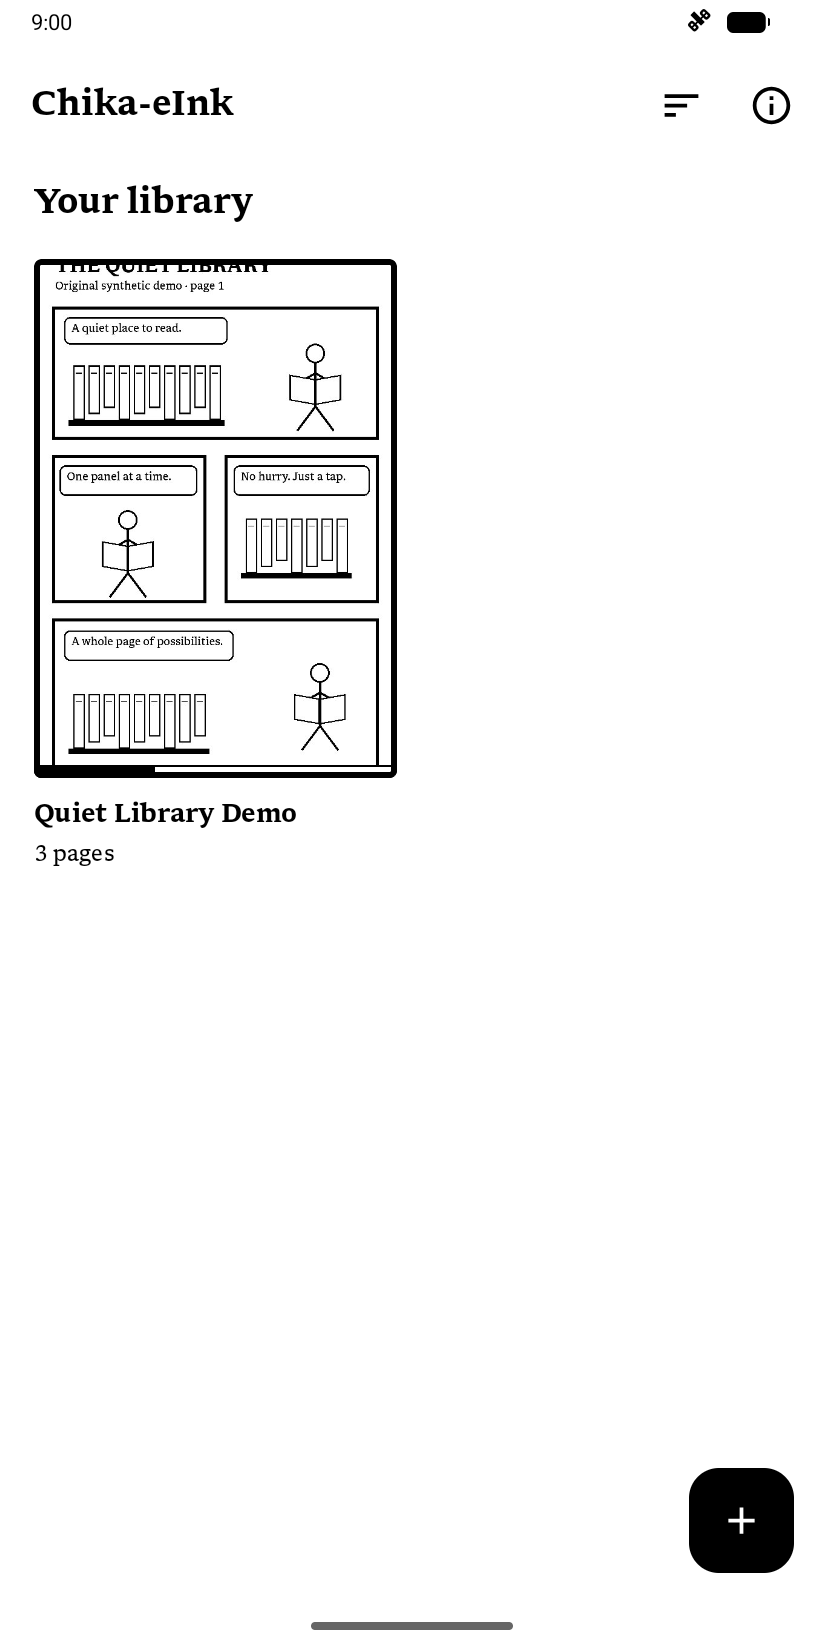
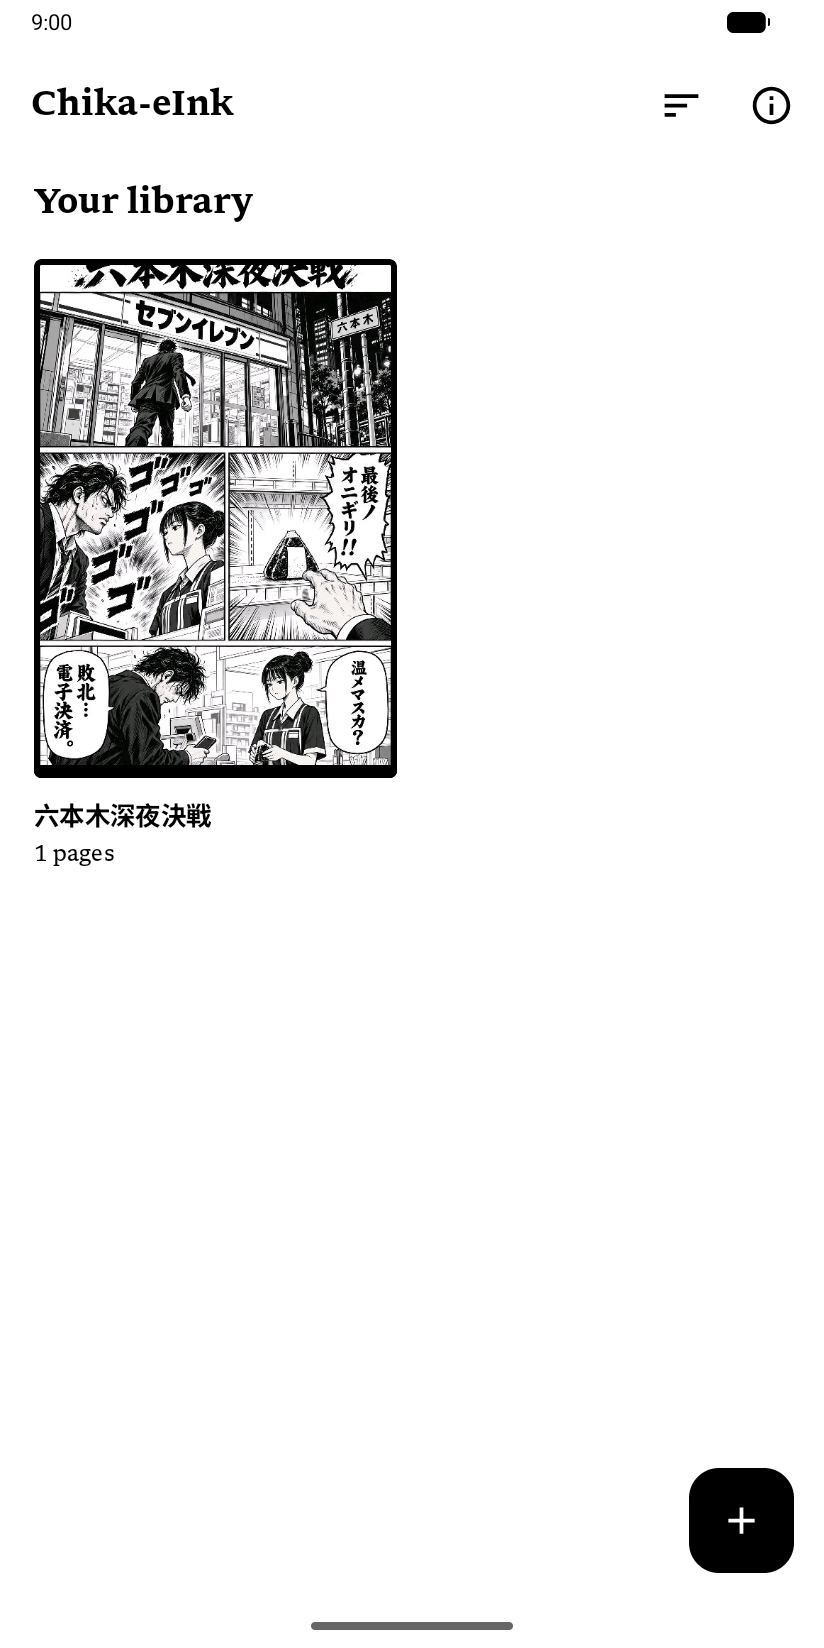
Replace screenshot demo with original Roppongi manga

Changed region(s): [[0.0303, 0.1547, 0.4854, 0.5261], [0.8192, 0.0, 0.8495, 0.0309]]

diff --git a/tools/generate_screenshot_comic.py b/tools/generate_screenshot_comic.py
@@ -1,63 +1,14 @@
-"""Original synthetic comic fixture for Chika-eInk screenshots. MPL-2.0."""
-from pathlib import Path
-from io import BytesIO
-from zipfile import ZipFile, ZIP_DEFLATED
-from PIL import Image, ImageDraw, ImageFont
-
+"""Package the original Roppongi demo manga for screenshots. MPL-2.0."""
 import argparse
+from pathlib import Path
+from zipfile import ZipFile, ZIP_DEFLATED
 
 parser = argparse.ArgumentParser(description=__doc__)
-parser.add_argument('output', type=Path, help='Directory for the generated CBZ')
-root = parser.parse_args().output
-root.mkdir(parents=True, exist_ok=True)
-fonts = Path(__file__).resolve().parents[1] / 'app/src/main/res/font'
-regular = ImageFont.truetype(str(fonts / 'libron_regular.ttf'), 36)
-bold = ImageFont.truetype(str(fonts / 'libron_bold.ttf'), 64)
-
-
-def speech(draw, box, text):
-    draw.rounded_rectangle(box, radius=20, fill='white', outline='black', width=5)
-    draw.text((box[0]+24, box[1]+20), text, fill='black', font=regular)
-
-
-def shelf(draw, x, y, count=8):
-    for i in range(count):
-        left=x+i*50
-        draw.rectangle((left,y,left+38,y+180-(i%3)*20),fill='white',outline='black',width=5)
-        draw.line((left+8,y+25,left+28,y+25),fill='black',width=3)
-    draw.rectangle((x-15,y+180,x+count*50,y+198),fill='black')
-
-
-def reader(draw, x, y):
-    draw.ellipse((x-32,y-32,x+32,y+32),outline='black',width=6)
-    draw.line((x,y+32,x,y+175),fill='black',width=8)
-    draw.line((x,y+175,x-60,y+255),fill='black',width=8)
-    draw.line((x,y+175,x+60,y+255),fill='black',width=8)
-    draw.line((x,y+65,x-70,y+105),fill='black',width=8)
-    draw.line((x,y+65,x+70,y+105),fill='black',width=8)
-    draw.polygon([(x-85,y+70),(x,y+85),(x,y+170),(x-85,y+155)],fill='white',outline='black',width=5)
-    draw.polygon([(x,y+85),(x+85,y+70),(x+85,y+155),(x,y+170)],fill='white',outline='black',width=5)
-
-
-pages=[]
-for page in range(3):
-    img=Image.new('RGB',(1200,1800),'white')
-    d=ImageDraw.Draw(img)
-    d.text((70,35),'THE QUIET LIBRARY',font=bold,fill='black')
-    d.text((70,115),f'Original synthetic demo · page {page+1}',font=regular,fill='black')
-    boxes=[(60,200,1140,640),(60,690,570,1180),(630,690,1140,1180),(60,1230,1140,1740)]
-    for box in boxes:d.rectangle(box,outline='black',width=10)
-    speech(d,(100,235,640,325),'A quiet place to read.')
-    shelf(d,130,395,10)
-    reader(d,930,355)
-    speech(d,(85,725,540,825),'One panel at a time.')
-    reader(d,310,905)
-    speech(d,(660,725,1110,825),'No hurry. Just a tap.')
-    shelf(d,700,900,7)
-    speech(d,(100,1270,660,1370),'A whole page of possibilities.')
-    shelf(d,130,1480,9)
-    reader(d,945,1410)
-    stream=BytesIO();img.save(stream,format='PNG');pages.append(stream.getvalue())
-with ZipFile(root/'Quiet Library Demo.cbz','w',ZIP_DEFLATED) as archive:
-    for i,data in enumerate(pages):archive.writestr(f'{i+1:03}.png',data)
-print(root/'Quiet Library Demo.cbz')
+parser.add_argument("output", type=Path, help="Directory for the generated CBZ")
+output = parser.parse_args().output
+output.mkdir(parents=True, exist_ok=True)
+artwork = Path(__file__).resolve().parents[1] / "docs/demo/roppongi.png"
+archive_path = output / "六本木深夜決戦.cbz"
+with ZipFile(archive_path, "w", ZIP_DEFLATED) as archive:
+    archive.write(artwork, "001.png")
+print(archive_path)

diff --git a/docs/ARTWORK.md b/docs/ARTWORK.md
@@ -27,21 +27,37 @@ Run `python3 tools/generate_fork_icons.py` from the repository root to regenerat
 
 ## Fork screenshots
 
-The current `docs/screens/{library,reader,panel,menu,sorting,actions,progress}.png`
-are unedited captures of the revised UI (source commit `613233b`), refreshed on
-2026-10-03. They run on an Android API 37 emulator configured at 824 × 1648,
-300dpi, and font scale 0.85, matching the connected Palma 2's reported UI settings.
-The emulator's Android version differs from that device's Android 13. They show Libron
-typography and the original “Quiet Library Demo” comic, made from simple geometric
-drawings for this fork. These replace the removed upstream screenshots; they are
-not photographs of a BOOX device and do not demonstrate physical e-ink refresh.
+The README's `docs/screens/{library,reader,panel}.png` are unedited captures of
+source commit `613233b`, refreshed on 2026-10-03. They run on an Android API 37
+emulator configured at 824 × 1648, 300dpi, and font scale 0.85, matching the
+connected Palma 2's reported UI settings. The emulator's Android version differs
+from that device's Android 13. These are not photographs of a BOOX device and do
+not demonstrate physical e-ink refresh.
 
-The demo artwork, screenshot captures, and generator are distributed under
-[MPL-2.0](../LICENSE); Libron retains its OFL and copyright notices. No external
-comic artwork was used. Generate the three-page CBZ with
-`python3 tools/generate_screenshot_comic.py /tmp/chika-demo` (requires Pillow),
-import it using the app's file picker, and capture the screen using
-`adb exec-out screencap -p > screenshot.png`.
+They show the original one-page demo manga **六本木深夜決戦** (Roppongi Midnight
+Showdown): a tongue-in-cheek encounter over the last onigiri at a Roppongi
+7-Eleven. Its title and dialogue use kanji and katakana, without English or
+hiragana. The reader is set to RTL for the manga screenshots. The app's existing
+Libron typography uses Android's fallback for Japanese characters.
+
+The page at `docs/demo/roppongi.png` was generated using Codex's built-in image
+generation tool, without reference images or external comic artwork. The generation
+prompt is recorded in [docs/demo/PROMPT.md](demo/PROMPT.md). The fork contributes
+its artwork and captures under [MPL-2.0](../LICENSE) to the extent it holds rights;
+AI-generated material may not itself qualify for copyright in every jurisdiction.
+7-Eleven's name and identifying store references remain third-party trademarks;
+this fictional demo does not imply endorsement or affiliation.
+
+Package the demo CBZ with
+`python3 tools/generate_screenshot_comic.py /tmp/chika-demo` (Python standard
+library only), import it using the app's file picker, and capture the screen using
+`adb exec-out screencap -p > screenshot.png`. The script packages the committed
+page unchanged; it does not regenerate AI artwork.
+
+The additional `docs/screens/{menu,sorting,actions,progress}.png` captures are
+retained from the earlier UI documentation and are not embedded in the README.
+They show the geometric “Quiet Library Demo”, originally drawn for this fork
+under MPL-2.0, using Libron under its OFL and copyright notices.
 
 User-imported comic pages/covers are not distributed as repository artwork. Future
 screenshots should use original synthetic art or artwork with documented redistribution

diff --git a/docs/demo/PROMPT.md b/docs/demo/PROMPT.md
@@ -1,0 +1,8 @@
+# Roppongi demo manga generation
+
+Generated on 2026-10-03 with Codex's built-in image generation tool. No reference
+images were supplied. Final selected output: `roppongi.png`, used without edits.
+
+## Prompt
+
+Use case: illustration-story. Create an original finished black-and-white Japanese manga page, portrait 2:3, crisp black ink on pure white, professionally drawn expressive original adult characters, detailed convenience store setting, no gray washes. Four clearly separated rectangular panels with broad white gutters: wide establishing panel across top, two middle panels side by side, wide bottom punchline panel. A tongue-in-cheek action manga at a 7-Eleven in Roppongi at midnight: top panel exterior of recognizable Japanese convenience store with only katakana sign セブンイレブン and street sign 六本木, an intense adult customer enters. Middle right: dramatic close-up of the final onigiri on a shelf, customer declaring 最後ノオニギリ！！. Middle left: absurdly intense shonen-style face-off between hungry customer and utterly calm cashier, bold speed lines and sound effect ゴゴゴ. Bottom: customer meekly pays at counter, defeated by hunger rather than an actual fight; cashier speech bubble 温メマスカ？, customer speech bubble 敗北…電子決済。. Page title above panels 六本木深夜決戦. ALL lettering must be ONLY Japanese kanji and katakana plus punctuation. No hiragana, Latin letters, Arabic numerals, English, actual Latin 7-Eleven logo, watermarks or artist signature. Exact texts only as specified, large legible carefully formed Japanese lettering. Keep speech bubbles inside their panels and avoid complex overlapping panel borders. Entire page visible, generous white outer margins, manga reading order right to left. This is an original humorous demo comic for an open-source reader, not UI or a device mockup.

diff --git a/README.md b/README.md
@@ -41,8 +41,10 @@ swipe to turn whole pages and flip reading direction (LTR/RTL).
 
 ## Screenshots
 
-Captured from the revised UI on an Android emulator with original demo artwork,
-using the connected Palma 2's reported resolution, density, and font scale.
+Captured from the revised UI on an Android emulator using the connected Palma 2's
+reported resolution, density, and font scale. The original demo manga,
+**六本木深夜決戦**, stages a midnight showdown over the last onigiri at a Roppongi
+7-Eleven, with kanji/katakana lettering and right-to-left reading.
 
 | Library | Full page view | Panel view |
 | --- | --- | --- |
